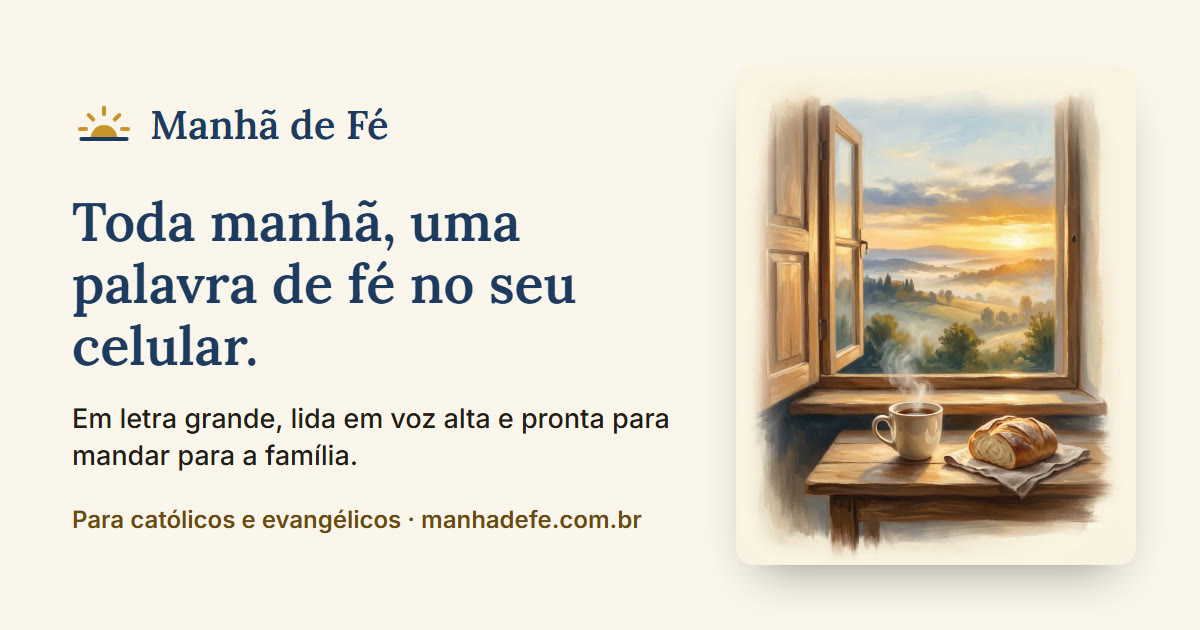
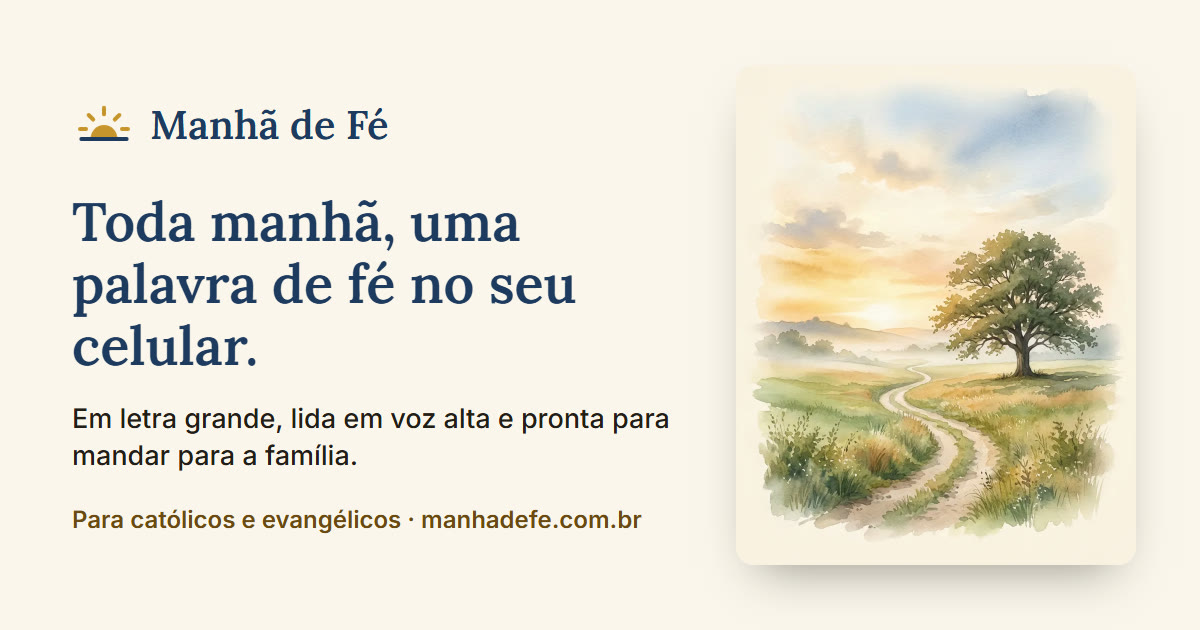
site: amostra do cartão em aquarela (estilo decidido para o app)
Troca a pintura a óleo pela aquarela aprovada como referência das imagens
neutras (mesmo arquivo do cartão comum-001 no app) no cartão evangélico e na
imagem de compartilhamento do link.

Changed region(s): [[0.6167, 0.1508, 0.9558, 0.8746]]

diff --git a/index.html b/index.html
@@ -187,7 +187,7 @@
           <p class="cartao-tempo" data-so="catolico">Tempo Comum</p>
           <img class="cartao-imagem" data-so="catolico" src="/midia/amostra-bloch.webp" srcset="/midia/amostra-bloch-480.webp 480w, /midia/amostra-bloch.webp 800w" sizes="(max-width: 560px) 90vw, 470px" width="800" height="1000" loading="lazy" alt="Pintura Cristo Consolador, de Carl Bloch: Jesus de braços abertos acolhe pessoas aflitas">
           <p class="cartao-credito" data-so="catolico">Carl Bloch, Cristo Consolador (1875), domínio público</p>
-          <img class="cartao-imagem" data-so="evangelico" src="/midia/amostra-oleo.webp" srcset="/midia/amostra-oleo-480.webp 480w, /midia/amostra-oleo.webp 800w" sizes="(max-width: 560px) 90vw, 470px" width="800" height="1000" loading="lazy" alt="Pintura a óleo: janela aberta ao amanhecer, com uma xícara de café e um pão sobre a mesa">
+          <img class="cartao-imagem" data-so="evangelico" src="/midia/amostra-aquarela.webp" srcset="/midia/amostra-aquarela-480.webp 480w, /midia/amostra-aquarela.webp 800w" sizes="(max-width: 560px) 90vw, 470px" width="800" height="1000" loading="lazy" alt="Aquarela: caminho de terra no campo ao amanhecer, com uma árvore grande ao lado">
           <blockquote class="cartao-versiculo"><p>“O Senhor é o meu pastor; nada me faltará.”</p><cite>Salmo 23,1</cite></blockquote>
           <div class="player">
             <div class="player-barra" aria-hidden="true"><div class="player-progresso" data-progresso></div></div>

diff --git a/evangelico/index.html b/evangelico/index.html
@@ -85,7 +85,7 @@
         <div class="cartao-faixa" aria-hidden="true"></div>
         <div class="cartao-corpo">
           <p class="cartao-bomdia">Bom dia.</p>
-          <img class="cartao-imagem" src="/midia/amostra-oleo.webp" srcset="/midia/amostra-oleo-480.webp 480w, /midia/amostra-oleo.webp 800w" sizes="(max-width: 560px) 90vw, 470px" width="800" height="1000" loading="lazy" alt="Pintura a óleo: janela aberta ao amanhecer, com uma xícara de café e um pão sobre a mesa">
+          <img class="cartao-imagem" src="/midia/amostra-aquarela.webp" srcset="/midia/amostra-aquarela-480.webp 480w, /midia/amostra-aquarela.webp 800w" sizes="(max-width: 560px) 90vw, 470px" width="800" height="1000" loading="lazy" alt="Aquarela: caminho de terra no campo ao amanhecer, com uma árvore grande ao lado">
           <blockquote class="cartao-versiculo"><p>“O Senhor é o meu pastor; nada me faltará.”</p><cite>Salmo 23,1</cite></blockquote>
           <div class="player">
             <div class="player-barra" aria-hidden="true"><div class="player-progresso" data-progresso></div></div>
